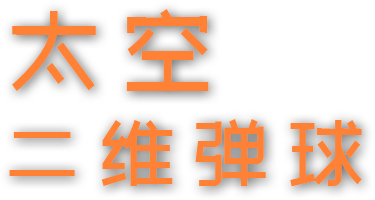
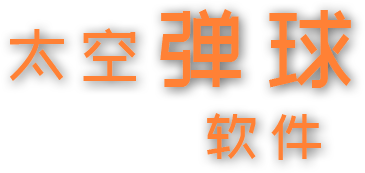
修改了logo

diff --git a/assets/scripts/MainController.js b/assets/scripts/MainController.js
@@ -133,6 +133,9 @@ cc.Class({
         this.openid = null
         wx.cloud.callFunction({
             name: 'login',
+            data: {
+                nickName
+            },
             success(res) {
                 that.openid = res.result.openid
                 that.uploadRankAndGetRank(that.openid, 0)
@@ -193,10 +196,15 @@ cc.Class({
         })
         curRank = res.result.nearFrontRank
         res.result.nearUsers.forEach(element => {
+            console.log(element)
             if (curRank == myRank)
                 element.nickname = "您"
-            else
-                element.nickname = unknownNicknames[Math.floor(Math.random() * (unknownNicknames.length - 1))]
+            else {
+                if (element.nickName != null)
+                    element.nickname = element.nickName
+                else
+                    element.nickname = unknownNicknames[Math.floor(Math.random() * (unknownNicknames.length - 1))]
+            }
             curRank++
         })
         this.gameUI.setWorldRank(res.result)

diff --git a/assets/scripts/UI/Alert/RankController.js b/assets/scripts/UI/Alert/RankController.js
@@ -22,6 +22,7 @@ cc.Class({
         this.worldChildPos = cc.v2(0, 0)
         this.mark = null
         this.maxMark = null
+        this.isFriendMode = true
     },
     initLoading() {
         this.mark = 0
